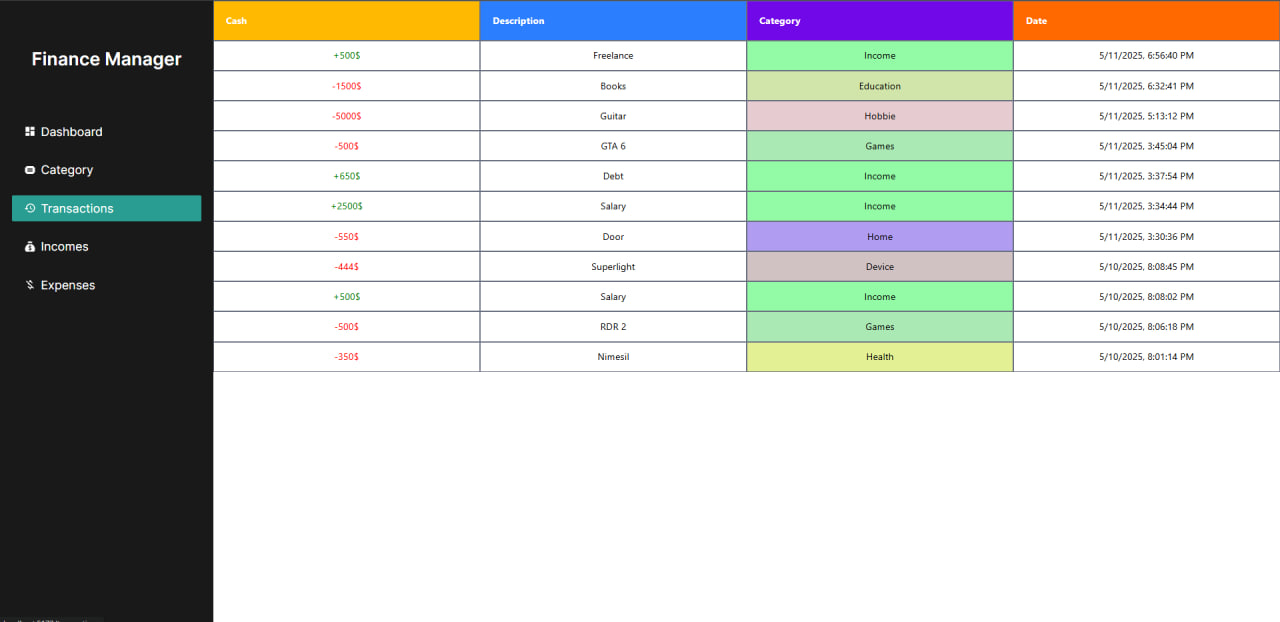
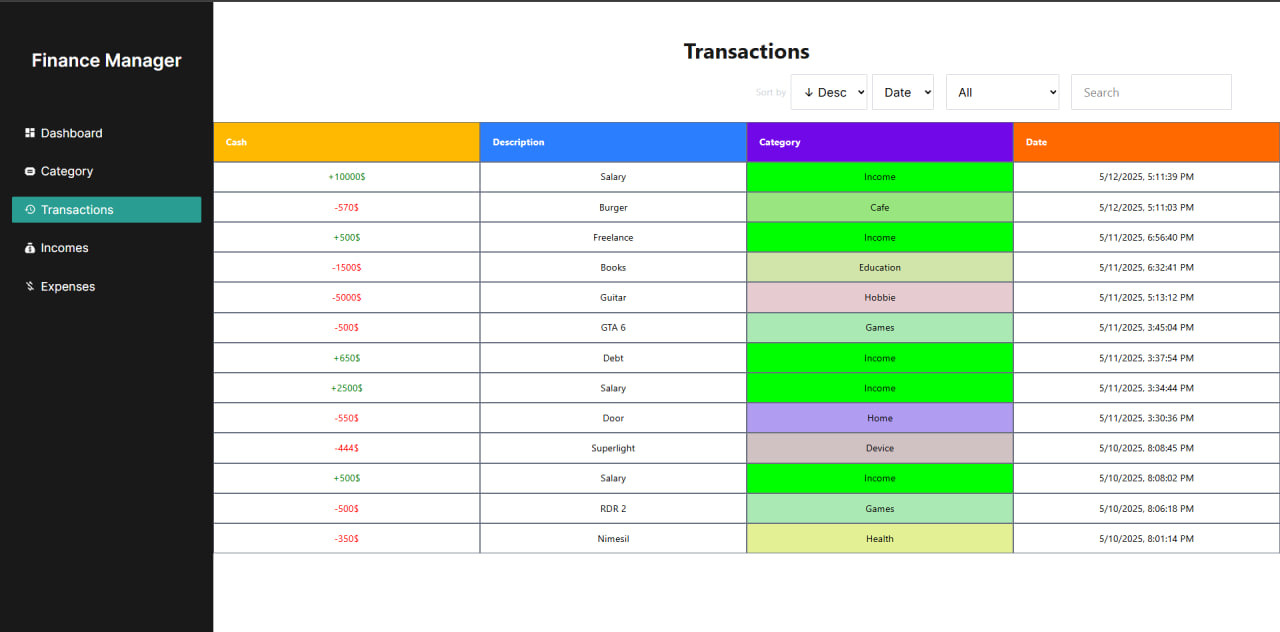
add pagination hook

diff --git a/src/pages/Expenses.jsx b/src/pages/Expenses.jsx
@@ -11,6 +11,8 @@ import {
 import { useEffect, useState } from "react";
 import ModalItem from "../components/ModalItem";
 
+import { UsePagination } from "../hooks/UsePagination";
+
 export default function Expenses() {
   const { data: expenses, isLoading: loadingExpenses } = useGetExpensesQuery();
   const { data: categories, isLoading: loadingCategories } =
@@ -31,6 +33,8 @@ export default function Expenses() {
   const [category, setCategory] = useState("");
   const [prevCategory, setPrevCategory] = useState("");
   const [prevCash, setPrevCash] = useState("");
+
+  const [totalPages, page, setPage, start, end] = UsePagination(expenses, 15);
 
   useEffect(() => {
     if (categories && categories.length > 0) {
@@ -156,7 +160,7 @@ export default function Expenses() {
             ❌
           </button>
           <p className="text-xl text-center text-white font-['Inter'] font-bold">
-            Change Expense
+            Change expense
           </p>
           <input
             type="number"
@@ -242,45 +246,65 @@ export default function Expenses() {
         <div className="grid grid-cols-5 gap-5 mt-10">
           {!loadingExpenses &&
             expenses &&
-            [...expenses].reverse().map((item) => (
-              <div
-                key={item.id}
-                className="text-center m-auto p-10 border border-solid border-gray-300 w-full rounded-xs relative"
-              >
-                <p className="text-red-600 font-['Inter'] font-bold text-xl">
-                  -{item.cash}$
-                </p>
-                <p className="text-gray-500 text-md font-['Inter']">
-                  {item.description}
-                </p>
+            [...expenses]
+              .slice(start, end)
+              .reverse()
+              .map((item) => (
                 <div
-                  className="p-2 text-[10px] rounded-md h-max box-border text-neutral-600 opacity-80 w-max my-2 m-auto"
-                  style={{
-                    backgroundColor: categories.find(
-                      (category) => category.category === item.category
-                    )?.color,
-                  }}
+                  key={item.id}
+                  className="text-center m-auto p-10 border border-solid border-gray-300 w-full rounded-xs relative"
                 >
-                  {item.category}
+                  <p className="text-red-600 font-['Inter'] font-bold text-xl">
+                    -{item.cash}$
+                  </p>
+                  <p className="text-gray-500 text-md font-['Inter']">
+                    {item.description}
+                  </p>
+                  <div
+                    className="p-2 text-[10px] rounded-md h-max box-border text-neutral-600 opacity-80 w-max my-2 m-auto"
+                    style={{
+                      backgroundColor: categories.find(
+                        (category) => category.category === item.category
+                      )?.color,
+                    }}
+                  >
+                    {item.category}
+                  </div>
+                  <p className="text-gray-300 font-['Inter'] text-xs mt-1">
+                    {item.date}
+                  </p>
+                  <button
+                    onClick={() => deleteData(item)}
+                    className="text-xl hover:cursor-pointer hover:opacity-50 absolute bottom-2 right-2"
+                  >
+                    🗑
+                  </button>
+                  <button
+                    onClick={() => editData(item)}
+                    className="text-xl hover:cursor-pointer hover:opacity-50 absolute bottom-2 right-10"
+                  >
+                    ✏
+                  </button>
                 </div>
-                <p className="text-gray-300 font-['Inter'] text-xs mt-1">
-                  {item.date}
-                </p>
-                <button
-                  onClick={() => deleteData(item)}
-                  className="text-xl hover:cursor-pointer hover:opacity-50 absolute bottom-2 right-2"
-                >
-                  🗑
-                </button>
-                <button
-                  onClick={() => editData(item)}
-                  className="text-xl hover:cursor-pointer hover:opacity-50 absolute bottom-2 right-10"
-                >
-                  ✏
-                </button>
-              </div>
-            ))}
+              ))}
         </div>
+        {expenses.length > 0 && totalPages != 1 && (
+          <div className="flex justify-center mt-5 flex-wrap gap-2">
+            {[...Array(totalPages).keys()].map((i) => (
+              <button
+                key={i}
+                onClick={() => setPage(i + 1)}
+                className={`px-4 py-2 rounded hover:cursor-pointer ${
+                  page === i + 1
+                    ? "bg-[#299D91] text-white font-bold"
+                    : "bg-gray-200 text-gray-700"
+                }`}
+              >
+                {i + 1}
+              </button>
+            ))}
+          </div>
+        )}
       </div>
     </>
   );

diff --git a/src/pages/Incomes.jsx b/src/pages/Incomes.jsx
@@ -6,6 +6,7 @@ import {
 } from "../api/apiSlice";
 import { useState } from "react";
 import ModalItem from "../components/ModalItem";
+import { UsePagination } from "../hooks/UsePagination";
 
 export default function Incomes() {
   const { data, isLoading } = useGetIncomesQuery();
@@ -60,6 +61,8 @@ export default function Incomes() {
   };
 
   const isButtonDisabled = !cash || !description || cash <= 0;
+
+  const [totalPages, page, setPage, start, end] = UsePagination(data, 15);
 
   if (isLoading) return <p>Loading...</p>;
 
@@ -131,35 +134,55 @@ export default function Incomes() {
 
         <div className="grid grid-cols-5 gap-5 mt-10">
           {data &&
-            [...data].reverse().map((item, idx) => (
-              <div
-                key={item.id}
-                className="text-center m-auto p-10 border border-solid border-gray-300 w-full rounded-xs relative"
-              >
-                <p className="text-green-600 font-['Inter'] font-bold text-xl">
-                  +{item.cash}$
-                </p>
-                <p className="text-gray-500 text-md font-['Inter']">
-                  {item.description}
-                </p>
-                <p className="text-gray-300 font-['Inter'] text-xs mt-1">
-                  {item.date}
-                </p>
-                <button
-                  onClick={() => deleteIncome(item.id)}
-                  className="text-xl mt-2 hover:cursor-pointer hover:opacity-50 absolute bottom-2 right-2"
+            [...data]
+              .slice(start, end)
+              .reverse()
+              .map((item, idx) => (
+                <div
+                  key={item.id}
+                  className="text-center m-auto p-10 border border-solid border-gray-300 w-full rounded-xs relative"
                 >
-                  🗑
-                </button>
-                <button
-                  onClick={() => editData(item)}
-                  className="text-xl hover:cursor-pointer hover:opacity-50 absolute bottom-2 right-10"
-                >
-                  ✏
-                </button>
-              </div>
-            ))}
+                  <p className="text-green-600 font-['Inter'] font-bold text-xl">
+                    +{item.cash}$
+                  </p>
+                  <p className="text-gray-500 text-md font-['Inter']">
+                    {item.description}
+                  </p>
+                  <p className="text-gray-300 font-['Inter'] text-xs mt-1">
+                    {item.date}
+                  </p>
+                  <button
+                    onClick={() => deleteIncome(item.id)}
+                    className="text-xl mt-2 hover:cursor-pointer hover:opacity-50 absolute bottom-2 right-2"
+                  >
+                    🗑
+                  </button>
+                  <button
+                    onClick={() => editData(item)}
+                    className="text-xl hover:cursor-pointer hover:opacity-50 absolute bottom-2 right-10"
+                  >
+                    ✏
+                  </button>
+                </div>
+              ))}
         </div>
+        {data.length > 0 && totalPages != 1 && (
+          <div className="flex justify-center mt-5 flex-wrap gap-2">
+            {[...Array(totalPages).keys()].map((i) => (
+              <button
+                key={i}
+                onClick={() => setPage(i + 1)}
+                className={`px-4 py-2 rounded hover:cursor-pointer ${
+                  page === i + 1
+                    ? "bg-[#299D91] text-white font-bold"
+                    : "bg-gray-200 text-gray-700"
+                }`}
+              >
+                {i + 1}
+              </button>
+            ))}
+          </div>
+        )}
       </div>
     </>
   );

diff --git a/src/pages/Transactions.jsx b/src/pages/Transactions.jsx
@@ -1,6 +1,7 @@
 import { UseTransactions } from "../hooks/UseTransactions";
 import { useGetCategoryQuery } from "../api/apiSlice";
 import { useEffect, useState } from "react";
+import { UsePagination } from "../hooks/UsePagination";
 
 export default function Transactions() {
   const [transactionsData] = UseTransactions();
@@ -40,7 +41,10 @@ export default function Transactions() {
     }
 
     setDataFilter(filtered);
+    setPage(1);
   }, [transactionsData, input, selectCategory, selectSort, sortDirection]);
+
+  const [totalPages, page, setPage, start, end] = UsePagination(dataFilter, 13);
 
   if (isLoading) return <p>Loading...</p>;
 
@@ -73,13 +77,12 @@ export default function Transactions() {
             <option value="cash">Cash</option>
           </select>
         </div>
-
         <select
           value={selectCategory}
           onChange={(e) => setSelectCategory(e.target.value)}
           className="px-4 border-1 border-solid border-gray-300 h-15 text-xl font-['Inter'] rounded-xs focus:outline-none w-max mr-5 bg-white"
         >
-          <option value="all">All</option>
+          <option value="all">All categories</option>
           {data.map((item) => (
             <option key={item.id} value={item.category}>
               {item.category}
@@ -109,8 +112,8 @@ export default function Transactions() {
         </div>
       </div>
       {dataFilter.length ? (
-        dataFilter.map((item, idx) => (
-          <div key={idx} className="grid grid-cols-4">
+        dataFilter.slice(start, end).map((item) => (
+          <div key={item.id} className="grid grid-cols-4">
             <div
               style={{ color: item.method === "expense" ? "red" : "green" }}
               className="border-gray-500 text-center border-1 p-3"
@@ -138,6 +141,23 @@ export default function Transactions() {
         ))
       ) : (
         <p className="text-xl text-gray-500 mt-5 text-center">No data</p>
+      )}
+      {dataFilter.length > 0 && totalPages != 1 && (
+        <div className="flex justify-center mt-5 flex-wrap gap-2">
+          {[...Array(totalPages).keys()].map((i) => (
+            <button
+              key={i}
+              onClick={() => setPage(i + 1)}
+              className={`px-4 py-2 rounded hover:cursor-pointer ${
+                page === i + 1
+                  ? "bg-[#299D91] text-white font-bold"
+                  : "bg-gray-200 text-gray-700"
+              }`}
+            >
+              {i + 1}
+            </button>
+          ))}
+        </div>
       )}
     </div>
   );

diff --git a/src/pages/Category.jsx b/src/pages/Category.jsx
@@ -2,6 +2,8 @@ import { useGetCategoryQuery, useAddCategoryMutation } from "../api/apiSlice";
 import { useState } from "react";
 import { Link } from "react-router";
 
+import { UsePagination } from "../hooks/UsePagination";
+
 export default function Category() {
   const [categoryInput, setCategoryInput] = useState("");
   const [addCategory, { isLoading: isAdding, error: addError }] =
@@ -29,6 +31,8 @@ export default function Category() {
       console.error("Error adding category:", err);
     }
   };
+
+  const [totalPages, page, setPage, start, end] = UsePagination(categories, 7);
 
   if (isLoading) return <p>Loading categories...</p>;
 
@@ -67,7 +71,7 @@ export default function Category() {
       )}
 
       <div className="w-full grid grid-cols-4 gap-10 mt-10">
-        {categories?.map((item) => (
+        {categories?.slice(start, end).map((item) => (
           <Link
             key={item.id}
             to={`/category/${item.category.toLowerCase()}`}
@@ -82,6 +86,23 @@ export default function Category() {
           </Link>
         ))}
       </div>
+      {categories.length > 0 && totalPages != 1 && (
+        <div className="flex justify-center mt-5 flex-wrap gap-2">
+          {[...Array(Math.ceil(totalPages)).keys()].map((i) => (
+            <button
+              key={i}
+              onClick={() => setPage(i + 1)}
+              className={`px-4 py-2 rounded hover:cursor-pointer ${
+                page === i + 1
+                  ? "bg-[#299D91] text-white font-bold"
+                  : "bg-gray-200 text-gray-700"
+              }`}
+            >
+              {i + 1}
+            </button>
+          ))}
+        </div>
+      )}
     </div>
   );
 }

diff --git a/src/hooks/UsePagination.js b/src/hooks/UsePagination.js
@@ -1,0 +1,18 @@
+import { useEffect, useState } from "react";
+
+export function UsePagination(data = [], pageItems) {
+  let totalPages = Math.ceil(data.length / pageItems);
+  const [page, setPage] = useState(1);
+  const [start, setStart] = useState(0);
+  const [end, setEnd] = useState(0);
+
+  useEffect(() => {
+    setStart((page - 1) * pageItems);
+    setEnd(page * pageItems);
+    if (page > totalPages) {
+      setPage(1);
+    }
+  }, [totalPages, page]);
+
+  return [totalPages, page, setPage, start, end];
+}
